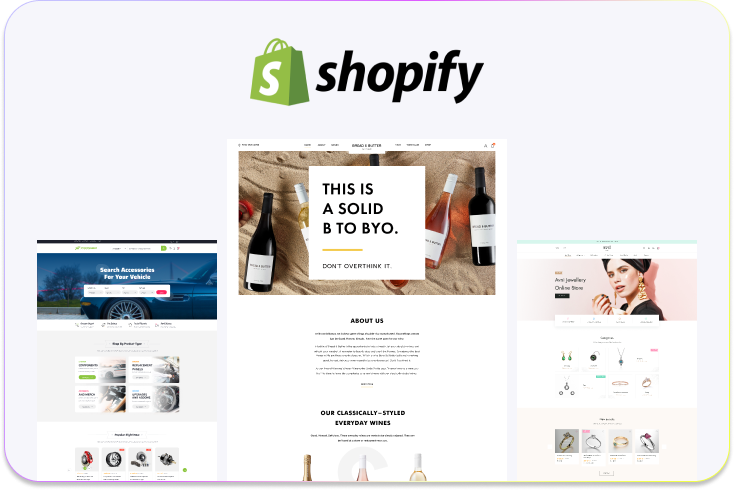
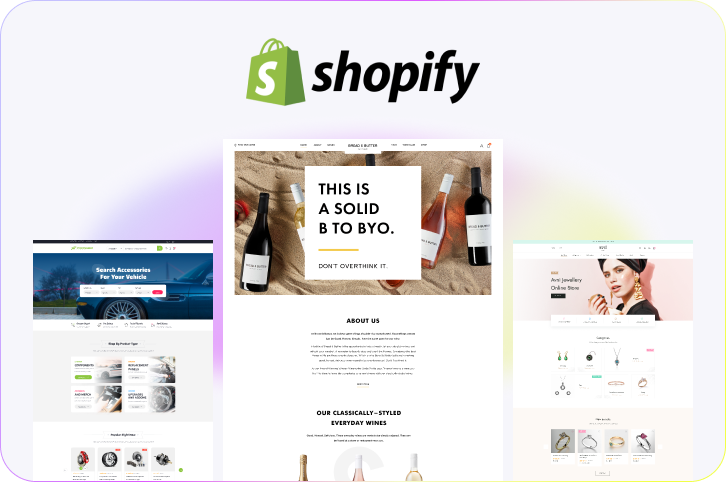
Small update

diff --git a/mobile-app-design.html b/mobile-app-design.html
@@ -157,7 +157,7 @@
                 <div class="container">
                     <div class="row gx-5">
                         <div class="col-lg-6">
-                            <div class="saas-feature mobile-app-left-img">
+                            <div class="saas-feature mobile-app-left-img another-gradient-color">
                                 <img class="img-fluid" src="assets/img/mobile-app-design-left-side-img.png" alt="img"
                                     data-tilt data-tilt-max="0.05" data-tilt-speed="1500" data-tilt-perspective="15" />
                             </div>

diff --git a/wordpress.html b/wordpress.html
@@ -157,7 +157,7 @@
                 <div class="container">
                     <div class="row gx-5">
                         <div class="col-lg-6">
-                            <div class="saas-feature mobile-app-left-img">
+                            <div class="saas-feature mobile-app-left-img another-gradient-color">
                                 <img class="img-fluid" src="assets/img/wordpress-left-section-img-1.png" alt="img"
                                     data-tilt data-tilt-max="0.05" data-tilt-speed="1500" data-tilt-perspective="15" />
                             </div>

diff --git a/shopify.html b/shopify.html
@@ -140,7 +140,7 @@
 				<div class="container">
 					<div class="row gx-5">
 						<div class="col-lg-6">
-							<div class="saas-feature mobile-app-left-img">
+							<div class="saas-feature another-gradient-color">
 								<img class="img-fluid" src="assets/img/shopify-feat-img.png" alt="img" data-tilt
 									data-tilt-max="0.05" data-tilt-speed="1500" data-tilt-perspective="15" />
 							</div>
